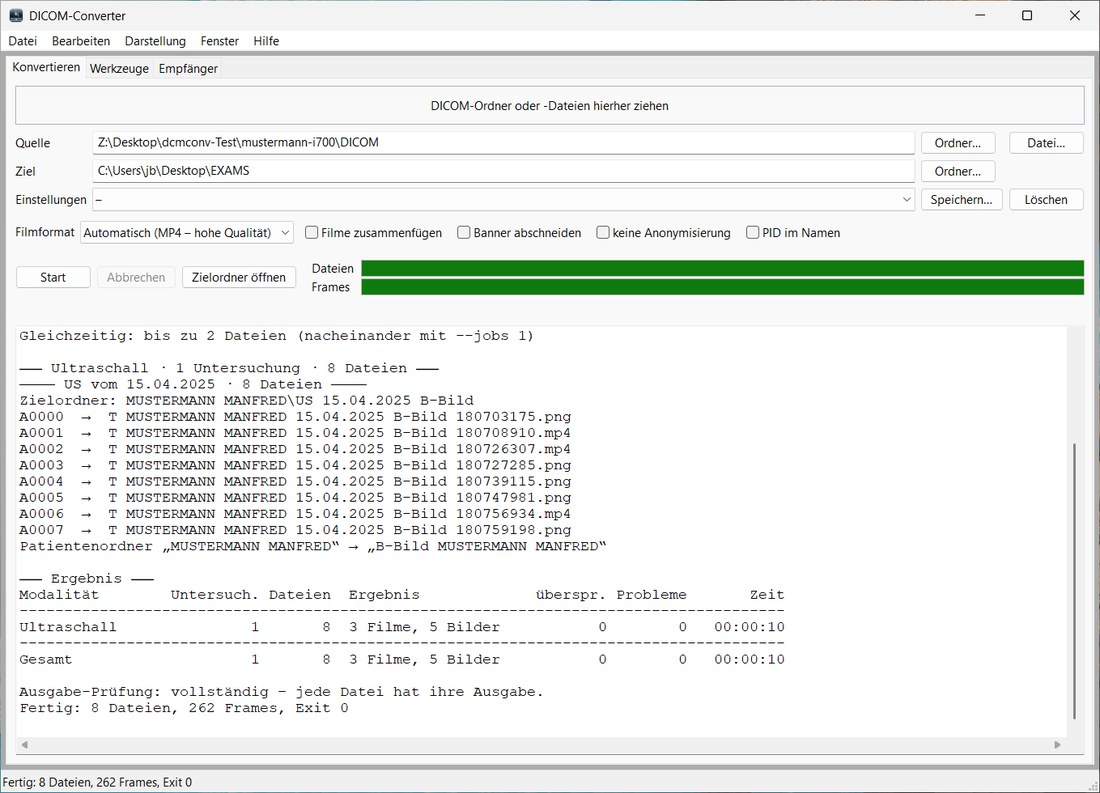
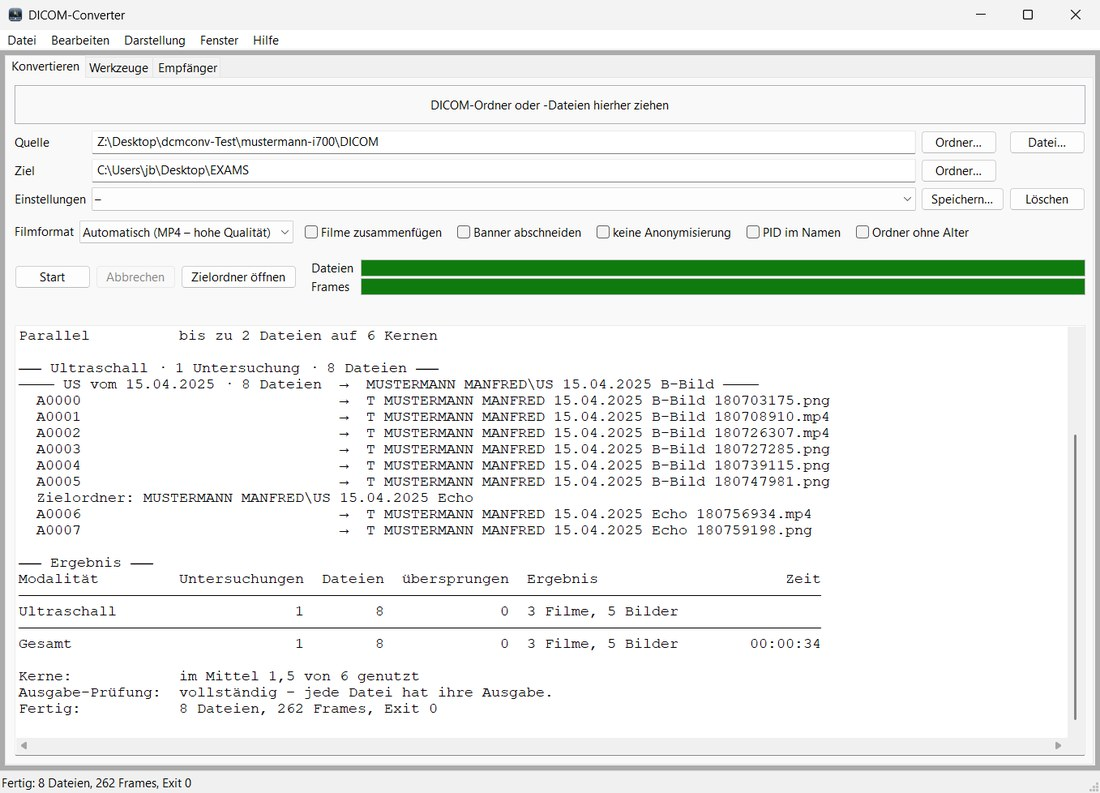
DICOM-Converter 3.0.0.567 (28.11.2026)

diff --git a/index.html b/index.html
@@ -62,7 +62,7 @@ s("view");document.addEventListener("click",function(e){var a=e.target.closest&&
 
 <p class="sprache"><b>DE</b> | <a href="en/" hreflang="en" lang="en">EN</a></p>
 <h1>DICOM-Converter</h1>
-<p class="muted">Version 3.0.0.544 · Stand 26.11.2026 · für macOS und Windows</p>
+<p class="muted">Version 3.0.0.567 · Stand 28.11.2026 · für macOS und Windows</p>
 
 <p class="lead">Der DICOM-Converter macht aus Ultraschall-Untersuchungen – und auch aus CT, MRT, Röntgen und anderen
 DICOM-Daten – ganz normale <b>Filme und Bilder</b>,
@@ -98,7 +98,7 @@ Einstellen musst du nichts. <a href="#schneller">Mehr dazu</a></p>
   </div>
   </div>
 <p class="muted">Mac ab macOS 11 (Apple Silicon und Intel), von Apple signiert · Windows 10 oder 11 (64 Bit) · <a href="#voraussetzungen">Systemvoraussetzungen</a></p>
-<p class="muted">Version 3.0.0.544 · <a href="https://github.com/jensberger-dev/dicom-converter/releases/latest/download/DICOM-Converter-Neuerungen.pdf" data-klick="download-neuerungen">Was ist neu gegenüber 2.0.8 (PDF)</a></p>
+<p class="muted">Version 3.0.0.567 · <a href="https://github.com/jensberger-dev/dicom-converter/releases/latest/download/DICOM-Converter-Neuerungen.pdf" data-klick="download-neuerungen">Was ist neu gegenüber 2.0.8 (PDF)</a></p>
 <div class="support">
   <span>Der DICOM-Converter ist kostenlos. Seine Weiterentwicklung kostet aber Geld – für das Apple-Entwicklerprogramm (damit der Mac das Programm ohne Warnung startet) und für den KI-Assistenten Claude, mit dem er entwickelt wird. Über eine Unterstützung freue ich mich sehr.</span>
   <a class="button secondary" href="https://www.paypal.com/paypalme/DicomConverter" data-klick="paypal">Unterstützen mit PayPal</a>
@@ -106,6 +106,17 @@ Einstellen musst du nichts. <a href="#schneller">Mehr dazu</a></p>
 
 
 <h2 id="neu">Neu in den letzten Versionen</h2>
+<h3>Version 3.0.0.567 <span class="muted">· 28.11.2026</span></h3>
+<ul>
+  <li>Schneller bei großen Mengen: Auf Rechnern mit 10 und mehr Kernen wandelt der DICOM-Converter jetzt bis zu fünf Dateien gleichzeitig um (bisher drei), bei 8–9 Kernen vier. Im Test mit 218 Ultraschall-Dateien 1:00 statt 1:13 Minuten, die Ergebnisse sind dieselben.</li>
+  <li>Protokoll: Der Kopf ist übersichtlicher – Quelle, Ziel, Filme, Anonymisierung, Optionen und Parallel stehen untereinander; bei „Optionen“ nur, was eingeschaltet ist.</li>
+  <li>Protokoll: Die Ergebnistabelle am Ende ist aufgeräumt – ausgeschriebene Spaltennamen, die Zeit nur noch insgesamt (bei mehreren Dateien gleichzeitig ergaben die Zeiten je Bildart keine Summe), „Probleme“ nur, wenn es welche gab, und Untersuchungen werden auch bei „Sonstige“ und in der Summe richtig gezählt.</li>
+  <li>Protokoll: Jede Untersuchung nennt ihren Zielordner gleich in der Trennzeile, die Dateien stehen eingerückt darunter; im Fortschrittsfenster etwas größere Schrift.</li>
+  <li>Auch im Terminal schreibt der DICOM-Converter jetzt die Protokolldatei.</li>
+  <li>Neuer Schalter „Ordner ohne Alter“ (Terminal: <code>--no-age-in-folder</code>): Der Patientenordner heißt dann ohne Alter, die Dateien behalten es.</li>
+  <li>Probelauf deutlich schneller (Testbestand ohne Ultraschall: 7 statt 66 Sekunden).</li>
+  <li>Protokoll: Untersuchungen ohne Ausgabe (z. B. nur Übersichtsbilder) sagen das in einer Zeile, Berichte und andere Dateien ohne Bilder stehen unter „Sonstige“, ergänzte Gerätedaten werden einmal je Untersuchung gemeldet; unter der Ergebnistabelle steht, wie viele Kerne im Mittel genutzt wurden.</li>
+</ul>
 <h3>Version 3.0.0.544 <span class="muted">· 26.11.2026</span></h3>
 <ul>
   <li>Filme und Bilder – nachträglich anonymisieren: Bilder der Endosonographie (EUS) mit Fujifilm-Echoendoskop werden jetzt erkannt und anonymisiert – Name, Geburtsdatum, Patienten-ID und Auftragsnummer werden abgedeckt. Datum und Uhrzeit für den Dateinamen liest der DICOM-Converter auf großen Bildern jetzt zuverlässiger. Namen mit Akzenten (z. B. polnische oder französische) erkennt das nachträgliche Anonymisieren im Bild jetzt zuverlässiger.</li>
@@ -117,13 +128,13 @@ Einstellen musst du nichts. <a href="#schneller">Mehr dazu</a></p>
 <ul>
   <li>Echokardiographie wird zuverlässiger erkannt: Neben dem Sektor-Schallkopf zählen jetzt auch eindeutige Angaben im DICOM-Kopf (z. B. Körperteil Herz, Untersuchungsgebiet Kardiologie, „Echo“ oder „TTE“ im Protokoll). Damit landen auch Echos von Philips EPIQ CVx, GE Vivid und GE Venue im Ordner „US &lt;Datum&gt; Echo“. Ein Sektor-Schallkopf allein reicht nicht mehr – es braucht einen zweiten Hinweis (z. B. CW-Doppler, Herz-Preset bei Canon, Herz-Anwendung bei GE oder ein anderes Echo-Bild der Untersuchung). Bilder mit Konvex- oder Linear-Schallkopf gelten nie als Echo, auch wenn im Kopf ein Herz-Protokoll steht.</li>
 </ul>
+<details><summary>Ältere Versionen</summary>
 <h3>Version 3.0.0.513 <span class="muted">· 23.11.2026</span></h3>
 <ul>
   <li>Filme – reparieren und in MP4 umwandeln: Die Frage nach dem Anonymisieren kommt jetzt zuerst; mit „Auch anonymisieren“ folgt nur noch ein Fenster mit Überblick und Originalen. Fertig ist nur noch „unser“ MP4 (H.264) – auch HEVC-Filme (z. B. vom iPhone) werden umgewandelt, damit sie überall spielen.</li>
   <li>Neu geschriebene Filme tragen im Finder unter „Copyright“ einen Vermerk, was der DICOM-Converter getan hat (repariert, umgewandelt, umgepackt, anonymisiert, beschnitten). Bereits anonymisierte Filme werden daran erkannt und nicht noch einmal bearbeitet.</li>
   <li>Die Finder-Angabe „Woher“ (Download-Adresse, oft mit dem alten Dateinamen) wird von keinem Werkzeug mehr in die neue Datei übernommen.</li>
 </ul>
-<details><summary>Ältere Versionen</summary>
 <h3>Version 3.0.0.511 <span class="muted">· 22.11.2026</span></h3>
 <ul>
   <li>Filme – nachträglich anonymisieren (auch beim Reparieren mit „Auch anonymisieren“): Liegt neben einem Film schon eine „… anonymisiert“-Datei einer früheren Fassung, wird trotzdem anonymisiert (die neue heißt dann „… anonymisiert 2“). Bisher brach das Programm dort ab, und beim Reparieren entstanden aus diesen Filmen neue MP4 ohne Anonymisierung.</li>
@@ -405,7 +416,7 @@ Computer kaum öffnen, und im Bild stehen die Patientendaten. Der DICOM-Converte
 
 <h3 id="schneller">Schnell – auch bei großen Mengen</h3>
 <p>Heutige Rechner haben mehrere Rechenkerne. Der DICOM-Converter nutzt sie und wandelt <b>mehrere Dateien gleichzeitig</b>
-um – auf Rechnern mit 8 und mehr Kernen bis zu drei, bei 6–7 Kernen zwei. Alles, was von der Reihenfolge abhängt
+um – auf Rechnern mit 10 und mehr Kernen bis zu fünf, bei 8–9 Kernen vier, bei 6–7 Kernen zwei. Alles, was von der Reihenfolge abhängt
 (z.&nbsp;B. zwei Patienten mit gleichem Namen, zusammengefügte Loops, CT- und MRT-Serien), erledigt er weiter streng der
 Reihe nach. Deshalb ist das Ergebnis <b>Bild für Bild dasselbe</b> wie beim Umwandeln nacheinander, und das Protokoll
 steht in der gewohnten Reihenfolge. Am meisten gewinnen viele Ultraschall-Bilder und -Filme; während des Laufs ist der
@@ -479,6 +490,7 @@ Mit <b>Zielordner öffnen</b> sehen Sie die fertigen Filme.</p>
   <tr><td><b>Filme zusammenfügen</b></td><td>Alle Loops einer Untersuchung werden ein einziger Film.</td></tr>
   <tr><td><b>Banner abschneiden</b></td><td>Die Kopfzeile mit den Gerätedaten wird ganz abgeschnitten statt überdeckt.</td></tr>
   <tr><td><b>PID im Namen</b></td><td>Die Patienten-ID steht zusätzlich im Ordnernamen.</td></tr>
+  <tr><td><b>Ordner ohne Alter</b></td><td>Der Patientenordner heißt ohne Alter, die Dateien behalten es.</td></tr>
   <tr><td><b>keine Anonymisierung</b></td><td>⚠ Patientendaten bleiben im Bild – nur für interne Zwecke.</td></tr>
 </table>
 </div>
@@ -583,7 +595,7 @@ Weiterentwicklung unterstützen möchte, kann das gern über
 
 
 <p class="muted" style="margin-top:3em">Alle Bilder auf dieser Seite zeigen Testpatienten („Mustermann“), keine echten Patientendaten.<br>
-DICOM-Converter 3.0.0.544 · Copyright Dr. Jens Berger (2012-2026)</p>
+DICOM-Converter 3.0.0.567 · Copyright Dr. Jens Berger (2012-2026)</p>
 
 </main>
 </body>

diff --git a/en/index.html b/en/index.html
@@ -62,7 +62,7 @@ s("view");document.addEventListener("click",function(e){var a=e.target.closest&&
 
 <p class="sprache"><a href="../" hreflang="de" lang="de">DE</a> | <b>EN</b></p>
 <h1>DICOM-Converter</h1>
-<p class="muted">Version 3.0.0.544 · as of 26.11.2026 · for macOS and Windows</p>
+<p class="muted">Version 3.0.0.567 · as of 28.11.2026 · for macOS and Windows</p>
 
 <p class="lead">The DICOM-Converter turns ultrasound examinations – and also CT, MRI, X-ray and other DICOM data – into
 ordinary <b>movies and images</b> that you can view with any program, put into PowerPoint or Keynote, or pass on –
@@ -97,7 +97,7 @@ You do not need to set anything. <a href="#schneller">More about this</a></p>
   </div>
   </div>
 <p class="muted">Mac with macOS 11 or later (Apple silicon and Intel), signed by Apple · Windows 10 or 11 (64-bit) · <a href="#voraussetzungen">System requirements</a></p>
-<p class="muted">Version 3.0.0.544 · <a href="https://github.com/jensberger-dev/dicom-converter/releases/latest/download/DICOM-Converter-Whats-New.pdf" data-klick="download-neuerungen">What’s new compared with 2.0.8 (PDF)</a></p>
+<p class="muted">Version 3.0.0.567 · <a href="https://github.com/jensberger-dev/dicom-converter/releases/latest/download/DICOM-Converter-Whats-New.pdf" data-klick="download-neuerungen">What’s new compared with 2.0.8 (PDF)</a></p>
 <div class="support">
   <span>The DICOM-Converter is free of charge. Developing it further does cost money, though – for the Apple Developer Program (so that the Mac starts the program without a warning) and for the AI assistant Claude, with which it is developed. I would be very grateful for your support.</span>
   <a class="button secondary" href="https://www.paypal.com/paypalme/DicomConverter" data-klick="paypal">Support with PayPal</a>
@@ -105,6 +105,17 @@ You do not need to set anything. <a href="#schneller">More about this</a></p>
 
 
 <h2 id="neu">New in the latest versions</h2>
+<h3>Version 3.0.0.567 <span class="muted">· 28.11.2026</span></h3>
+<ul>
+  <li>Faster with large amounts: on computers with 10 or more cores the DICOM-Converter now converts up to five files at the same time (previously three), with 8–9 cores four. In a test with 218 ultrasound files 1:00 instead of 1:13 minutes, the results are the same.</li>
+  <li>Log: the header is clearer – source, destination, movies, anonymization, options and parallel conversion are listed one below the other; “Options” shows only what is switched on.</li>
+  <li>Log: the results table at the end is tidier – full column names, the time only in total (with several files at the same time, the times per image type did not add up), “Problems” only if there were any, and examinations are also counted correctly for “Other” and in the total.</li>
+  <li>Log: each examination names its destination folder right in its separator line, the files are indented below it; slightly larger font in the progress window.</li>
+  <li>The DICOM-Converter now also writes the log file when it runs in the terminal.</li>
+  <li>New switch “Folder without age” (terminal: <code>--no-age-in-folder</code>): the patient folder is then named without the age, the files keep it.</li>
+  <li>Trial run much faster (test set without ultrasound: 7 instead of 66 seconds).</li>
+  <li>Log: examinations without output (e.g. only overview images) say so in one line, reports and other files without images are listed under “Other”, completed device data is reported once per examination; below the results table it shows how many cores were used on average.</li>
+</ul>
 <h3>Version 3.0.0.544 <span class="muted">· 26.11.2026</span></h3>
 <ul>
   <li>Movies and images – anonymize afterwards: endoscopic ultrasound (EUS) images from a Fujifilm echoendoscope are now recognised and anonymized – name, date of birth, patient ID and accession number are covered. The DICOM-Converter now reads the date and time for the file name more reliably on large images. Names with accents (e.g. Polish or French) are now recognised more reliably in the image when anonymizing afterwards.</li>
@@ -116,13 +127,13 @@ You do not need to set anything. <a href="#schneller">More about this</a></p>
 <ul>
   <li>Echocardiography is recognized more reliably: besides the sector transducer, clear details in the DICOM header now count too (e.g. body part heart, cardiology, “Echo” or “TTE” in the protocol). Echoes from Philips EPIQ CVx, GE Vivid and GE Venue therefore also go into “US &lt;date&gt; Echo”. A sector transducer alone is no longer enough – a second clue is needed (e.g. CW Doppler, the Canon heart preset, the GE cardiac application or another echo image of the examination). Images taken with a convex or linear transducer never count as echo, even if the header names a cardiac protocol.</li>
 </ul>
+<details><summary>Older versions</summary>
 <h3>Version 3.0.0.513 <span class="muted">· 23.11.2026</span></h3>
 <ul>
   <li>Movies – repair and convert to MP4: the question about anonymizing now comes first; with “Also anonymize” only one window with overview and originals follows. Only “our” MP4 (H.264) counts as finished – HEVC movies (e.g. from an iPhone) are converted too, so that they play everywhere.</li>
   <li>Rewritten movies carry a note under “Copyright” in the Finder saying what the DICOM-Converter did (repaired, converted, repackaged, anonymized, cropped). Movies that are already anonymized are recognised by it and not processed again.</li>
   <li>The Finder information “Where from” (download address, often with the old file name) is no longer copied to the new file by any tool.</li>
 </ul>
-<details><summary>Older versions</summary>
 <h3>Version 3.0.0.511 <span class="muted">· 22.11.2026</span></h3>
 <ul>
   <li>Movies – anonymize afterwards (also when repairing with “Also anonymize”): if an “… anonymisiert” file from an earlier version already lies next to a movie, it is anonymized anyway (the new one is then called “… anonymisiert 2”). Until now the program stopped there, and repairing turned these movies into new MP4 files without anonymization.</li>
@@ -405,7 +416,7 @@ computer, and the patient data are shown in the image. The DICOM-Converter</p>
 
 <h3 id="schneller">Fast – even with large amounts</h3>
 <p>Today’s computers have several processor cores. The DICOM-Converter uses them and converts <b>several files at the same
-time</b> – up to three on computers with 8 or more cores, two with 6–7 cores. Everything that depends on the order
+time</b> – up to five on computers with 10 or more cores, four with 8–9 cores, two with 6–7 cores. Everything that depends on the order
 (e.g. two patients with the same name, joined loops, CT and MRI series) is still done strictly in sequence. That is why
 the result is <b>the same, frame for frame</b>, as when converting one after the other, and the log appears in the usual
 order. Many ultrasound images and movies gain the most; during the run the computer is more heavily loaded. In addition,
@@ -479,6 +490,7 @@ the settings in the <a href="https://github.com/jensberger-dev/dicom-converter/r
   <tr><td><b>Join movies</b></td><td>All loops of one examination become a single movie.</td></tr>
   <tr><td><b>Crop banner</b></td><td>The header line with the device data is cut off completely instead of being covered.</td></tr>
   <tr><td><b>PID in name</b></td><td>The patient ID is added to the folder name.</td></tr>
+  <tr><td><b>Folder without age</b></td><td>The patient folder is named without the age, the files keep it.</td></tr>
   <tr><td><b>no anonymization</b></td><td>⚠ Patient data remain in the image – for internal use only.</td></tr>
 </table>
 </div>
@@ -584,7 +596,7 @@ support further development, you are welcome to do so via
 
 
 <p class="muted" style="margin-top:3em">All images on this page show test patients (“Mustermann”), no real patient data. The screenshots show the German interface.<br>
-DICOM-Converter 3.0.0.544 · Copyright Dr. Jens Berger (2012-2026)</p>
+DICOM-Converter 3.0.0.567 · Copyright Dr. Jens Berger (2012-2026)</p>
 
 </main>
 </body>

diff --git a/technik.html b/technik.html
@@ -181,7 +181,7 @@
     <tr><th>Spuren</th><th>Laufzeit</th><th>CPU-Zeit</th><th>Kerne im Mittel</th><th>Speicher</th></tr>
     <tr><td class="z">1</td><td class="z">131 s</td><td class="z">708 s</td><td class="z">5,4</td><td class="z">1,3 GB</td></tr>
     <tr><td class="z">2</td><td class="z">100 s</td><td class="z">772 s</td><td class="z">7,7</td><td class="z">2,1 GB</td></tr>
-    <tr><td class="z">3 (automatisch ab 8 Kernen)</td><td class="z">90 s</td><td class="z">776 s</td><td class="z">8,6</td><td class="z">2,3 GB</td></tr>
+    <tr><td class="z">3 (automatisch ab 8 Kernen bis 3.0.0.544)</td><td class="z">90 s</td><td class="z">776 s</td><td class="z">8,6</td><td class="z">2,3 GB</td></tr>
     <tr><td class="z">4</td><td class="z">86 s</td><td class="z">774 s</td><td class="z">9,0</td><td class="z">2,5 GB</td></tr>
     <tr><td class="z">6</td><td class="z">86 s</td><td class="z">778 s</td><td class="z">9,0</td><td class="z">3,2 GB</td></tr>
   </table></div>
@@ -247,7 +247,8 @@
   <h2><span class="nr">5</span>Schneller kodieren: x264 „veryfast“ statt „medium“ <span class="label">seit 3.0.0.389</span></h2>
   <p>Nach Stufe&nbsp;4 ist der Rechner voll ausgelastet, im Mittel arbeiten 8,6 von 10 Kernen. Eine Abtastung während der Umwandlung zeigt, wofür:
   <b>88&nbsp;%</b> der Rechenzeit gehen in den H.264-Kodierer x264, Lesen und Farbumrechnung zusammen keine 4&nbsp;%. Mehr Dateien gleichzeitig
-  bringen deshalb nichts mehr (3, 5 und 7 Spuren: 16,9 / 17,2 / 17,5&nbsp;s an einem Teilsatz). Der Hebel ist der Kodierer selbst.</p>
+  brachten deshalb damals nichts mehr (3, 5 und 7 Spuren: 16,9 / 17,2 / 17,5&nbsp;s an einem Teilsatz). Der Hebel ist der Kodierer selbst.
+  Mit dem schnelleren Kodierer lohnen sich mehr Spuren wieder – siehe unten.</p>
   <p>x264 kennt Voreinstellungen von „ultrafast“ bis „placebo“. Sie legen fest, wie gründlich er nach Bewegung zwischen den Bildern sucht und
   wie viele frühere Bilder er als Bezug heranzieht. Die Qualitätsstufe (CRF&nbsp;18) bleibt gleich, x264 regelt die Datenmenge danach. Über
   alle 92 Filme des Testsatzes:</p>
@@ -265,9 +266,22 @@
   sogar größer, weil es weniger frühere Bilder als Bezug nutzt, ohne viel Zeit zu sparen.</p>
   <div class="kasten">
     <p><b>Abschalten:</b> <code>--encoding thorough</code> im Terminal oder <code>DCMCONV_X264_PRESET=medium</code> kodiert wie bis 3.0.0.388.
-    Das Protokoll nennt die Wahl in der Zeile „Filme: … kodiert“. Hardware-Kodierer (VideoToolbox) waren nicht schneller als „veryfast“
+    Das Protokoll nennt die Wahl in der Zeile „Filme“ (schnell bzw. gründlich kodiert). Hardware-Kodierer (VideoToolbox) waren nicht schneller als „veryfast“
     und liefern je nach Rechner andere Ergebnisse.</p>
   </div>
+
+  <h3>Nachgemessen mit „veryfast“ (27.11.2026)</h3>
+  <p>Seit der Kodierer schneller ist, bremst er weniger, und die einspurigen Teile – Lesen, Texterkennung, Anonymisierungsprüfung – fallen stärker ins Gewicht. Mehr Spuren lohnen sich dadurch wieder. Ultraschall-Testsatz (inzwischen 218 Dateien, 16 080 Frames), Mac mit 10 Kernen, Mittel aus zwei Läufen:</p>
+  <div class="tab"><table>
+    <tr><th>Spuren</th><th>Laufzeit</th><th>CPU-Zeit</th><th>Speicher</th></tr>
+    <tr><td class="z">1</td><td class="z">165 s</td><td class="z">420 s</td><td class="z">1,3 GB</td></tr>
+    <tr><td class="z">2</td><td class="z">93 s</td><td class="z">432 s</td><td class="z">1,5 GB</td></tr>
+    <tr><td class="z">3 (bis 3.0.0.544 automatisch)</td><td class="z">73 s</td><td class="z">439 s</td><td class="z">1,9–2,2 GB</td></tr>
+    <tr><td class="z">4</td><td class="z">67 s</td><td class="z">453 s</td><td class="z">2,0–2,1 GB</td></tr>
+    <tr><td class="z">5 (jetzt automatisch ab 10 Kernen)</td><td class="z">60 s</td><td class="z">470 s</td><td class="z">2,3 GB</td></tr>
+    <tr><td class="z">6</td><td class="z">58 s</td><td class="z">479 s</td><td class="z">2,5 GB</td></tr>
+  </table></div>
+  <p>Ab fünf Spuren wird der Gewinn klein, die Rechenarbeit insgesamt steigt schon um etwa 7&nbsp;%. CT, MRT und Sonderfälle: 3 → 5 Spuren 120 → 113&nbsp;s bzw. 55 → 38&nbsp;s, der Speicher stieg dabei höchstens auf 1,7&nbsp;GB. Ausgaben bei allen Stufen gleich. Seither wählt der DICOM-Converter 5 Spuren ab 10 Kernen, 4 ab 8 Kernen, 2 ab 6 Kernen.</p>
 
   <footer>Geprüft auf dem gesamten Testbestand (6,5&nbsp;GB, 758 Ausgaben): alte Version = nacheinander = gleichzeitig, auch mit Glue und
   Anonymisierungsprüfung, in der Windows-VM und im Intel-Teil unter Rosetta. Alle Testdaten: 326&nbsp;s → 197&nbsp;s; mit Glue und Prüfung

diff --git a/en/technology.html b/en/technology.html
@@ -181,7 +181,7 @@
     <tr><th>Lanes</th><th>Run time</th><th>CPU time</th><th>Cores on average</th><th>Memory</th></tr>
     <tr><td class="z">1</td><td class="z">131 s</td><td class="z">708 s</td><td class="z">5.4</td><td class="z">1.3 GB</td></tr>
     <tr><td class="z">2</td><td class="z">100 s</td><td class="z">772 s</td><td class="z">7.7</td><td class="z">2.1 GB</td></tr>
-    <tr><td class="z">3 (automatic from 8 cores)</td><td class="z">90 s</td><td class="z">776 s</td><td class="z">8.6</td><td class="z">2.3 GB</td></tr>
+    <tr><td class="z">3 (automatic from 8 cores up to 3.0.0.544)</td><td class="z">90 s</td><td class="z">776 s</td><td class="z">8.6</td><td class="z">2.3 GB</td></tr>
     <tr><td class="z">4</td><td class="z">86 s</td><td class="z">774 s</td><td class="z">9.0</td><td class="z">2.5 GB</td></tr>
     <tr><td class="z">6</td><td class="z">86 s</td><td class="z">778 s</td><td class="z">9.0</td><td class="z">3.2 GB</td></tr>
   </table></div>
@@ -249,8 +249,8 @@
   <h2><span class="nr">5</span>Faster encoding: x264 “veryfast” instead of “medium” <span class="label">since 3.0.0.389</span></h2>
   <p>After stage&nbsp;4 the computer is fully loaded, with 8.6 of 10 cores working on average. Sampling during the conversion shows what
   for: <b>88&nbsp;%</b> of the computing time goes into the H.264 encoder x264, reading and color conversion together less than 4&nbsp;%.
-  More files at the same time therefore no longer help (3, 5 and 7 lanes: 16.9 / 17.2 / 17.5&nbsp;s on a subset). The lever is the
-  encoder itself.</p>
+  More files at the same time therefore no longer helped back then (3, 5 and 7 lanes: 16.9 / 17.2 / 17.5&nbsp;s on a subset). The
+  lever is the encoder itself. With the faster encoder, more lanes pay off again – see below.</p>
   <p>x264 has presets from “ultrafast” to “placebo”. They determine how thoroughly it searches for motion between frames and how many
   earlier frames it uses as references. The quality level (CRF&nbsp;18) stays the same, and x264 adjusts the amount of data accordingly.
   Across all 92 movies of the test set:</p>
@@ -268,9 +268,22 @@
   frames as references without saving much time.</p>
   <div class="kasten">
     <p><b>Switching it off:</b> <code>--encoding thorough</code> in the terminal or <code>DCMCONV_X264_PRESET=medium</code> encodes as up to
-    3.0.0.388. The log states the choice in the line about the encoded movies. Hardware encoders (VideoToolbox) were not
+    3.0.0.388. The log states the choice in the line “Movies” (encoded fast or thoroughly). Hardware encoders (VideoToolbox) were not
     faster than “veryfast” and give different results depending on the computer.</p>
   </div>
+
+  <h3>Measured again with “veryfast” (27.11.2026)</h3>
+  <p>Since the encoder got faster it slows things down less, and the single-threaded parts – reading, text recognition, anonymization check – weigh more. More lanes therefore pay off again. Ultrasound test set (now 218 files, 16 080 frames), Mac with 10 cores, mean of two runs:</p>
+  <div class="tab"><table>
+    <tr><th>Lanes</th><th>Run time</th><th>CPU time</th><th>Memory</th></tr>
+    <tr><td class="z">1</td><td class="z">165 s</td><td class="z">420 s</td><td class="z">1.3 GB</td></tr>
+    <tr><td class="z">2</td><td class="z">93 s</td><td class="z">432 s</td><td class="z">1.5 GB</td></tr>
+    <tr><td class="z">3 (automatic up to 3.0.0.544)</td><td class="z">73 s</td><td class="z">439 s</td><td class="z">1.9–2.2 GB</td></tr>
+    <tr><td class="z">4</td><td class="z">67 s</td><td class="z">453 s</td><td class="z">2.0–2.1 GB</td></tr>
+    <tr><td class="z">5 (now automatic from 10 cores)</td><td class="z">60 s</td><td class="z">470 s</td><td class="z">2.3 GB</td></tr>
+    <tr><td class="z">6</td><td class="z">58 s</td><td class="z">479 s</td><td class="z">2.5 GB</td></tr>
+  </table></div>
+  <p>From five lanes on the gain becomes small, while the total computing work already rises by about 7&nbsp;%. CT, MRI and special cases: 3 → 5 lanes 120 → 113&nbsp;s and 55 → 38&nbsp;s, memory rose to at most 1.7&nbsp;GB. Outputs the same at every level. Since then the DICOM-Converter chooses 5 lanes from 10 cores, 4 from 8 cores, 2 from 6 cores.</p>
 
   <footer>Checked on the entire test collection (6.5&nbsp;GB, 758 outputs): old version = one after the other = at the same time, also
   with glue and the anonymization check, in the Windows VM and in the Intel part under Rosetta. All test data: 326&nbsp;s → 197&nbsp;s;

diff --git a/en/legal.html b/en/legal.html
@@ -99,7 +99,7 @@ parties (Art. 6(1)(b) or (f) GDPR). Please do <b>not send any patient data</b> b
 lodge a complaint with a data protection supervisory authority (Art. 77 GDPR), for example the authority at your place
 of residence or the one responsible for the controller (Die Landesbeauftragte für den Datenschutz und für das Recht auf Akteneinsicht Brandenburg).</p>
 
-<p class="muted" style="margin-top:3em">As of: 26.11.2026</p>
+<p class="muted" style="margin-top:3em">As of: 28.11.2026</p>
 </main>
 </body>
 </html>

diff --git a/rechtliches.html b/rechtliches.html
@@ -98,7 +98,7 @@ Art. 6 Abs. 1 lit. f DSGVO (Art. 21). Außerdem können Sie sich bei einer Daten
 (Art. 77 DSGVO), etwa bei der Behörde Ihres Wohnorts oder der für den Verantwortlichen zuständigen
 (Die Landesbeauftragte für den Datenschutz und für das Recht auf Akteneinsicht Brandenburg).</p>
 
-<p class="muted" style="margin-top:3em">Stand: 26.11.2026</p>
+<p class="muted" style="margin-top:3em">Stand: 28.11.2026</p>
 </main>
 </body>
 </html>
